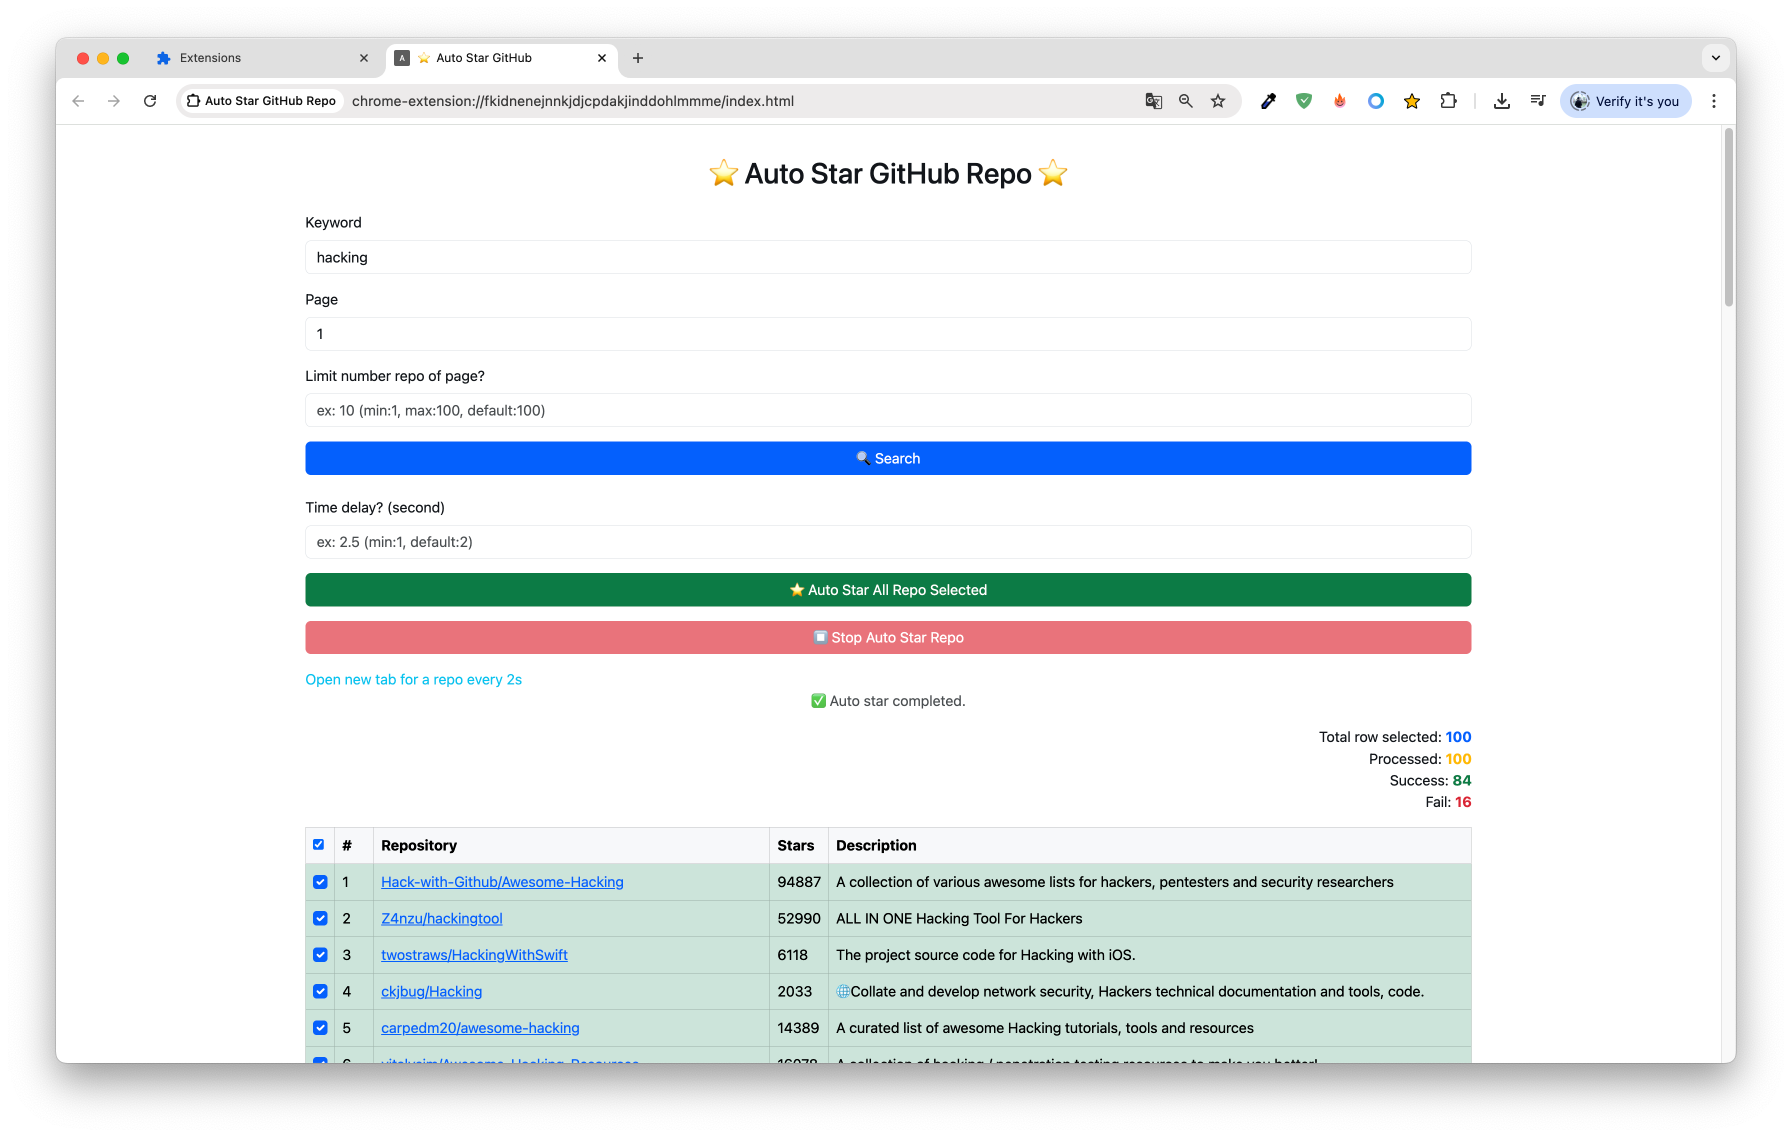
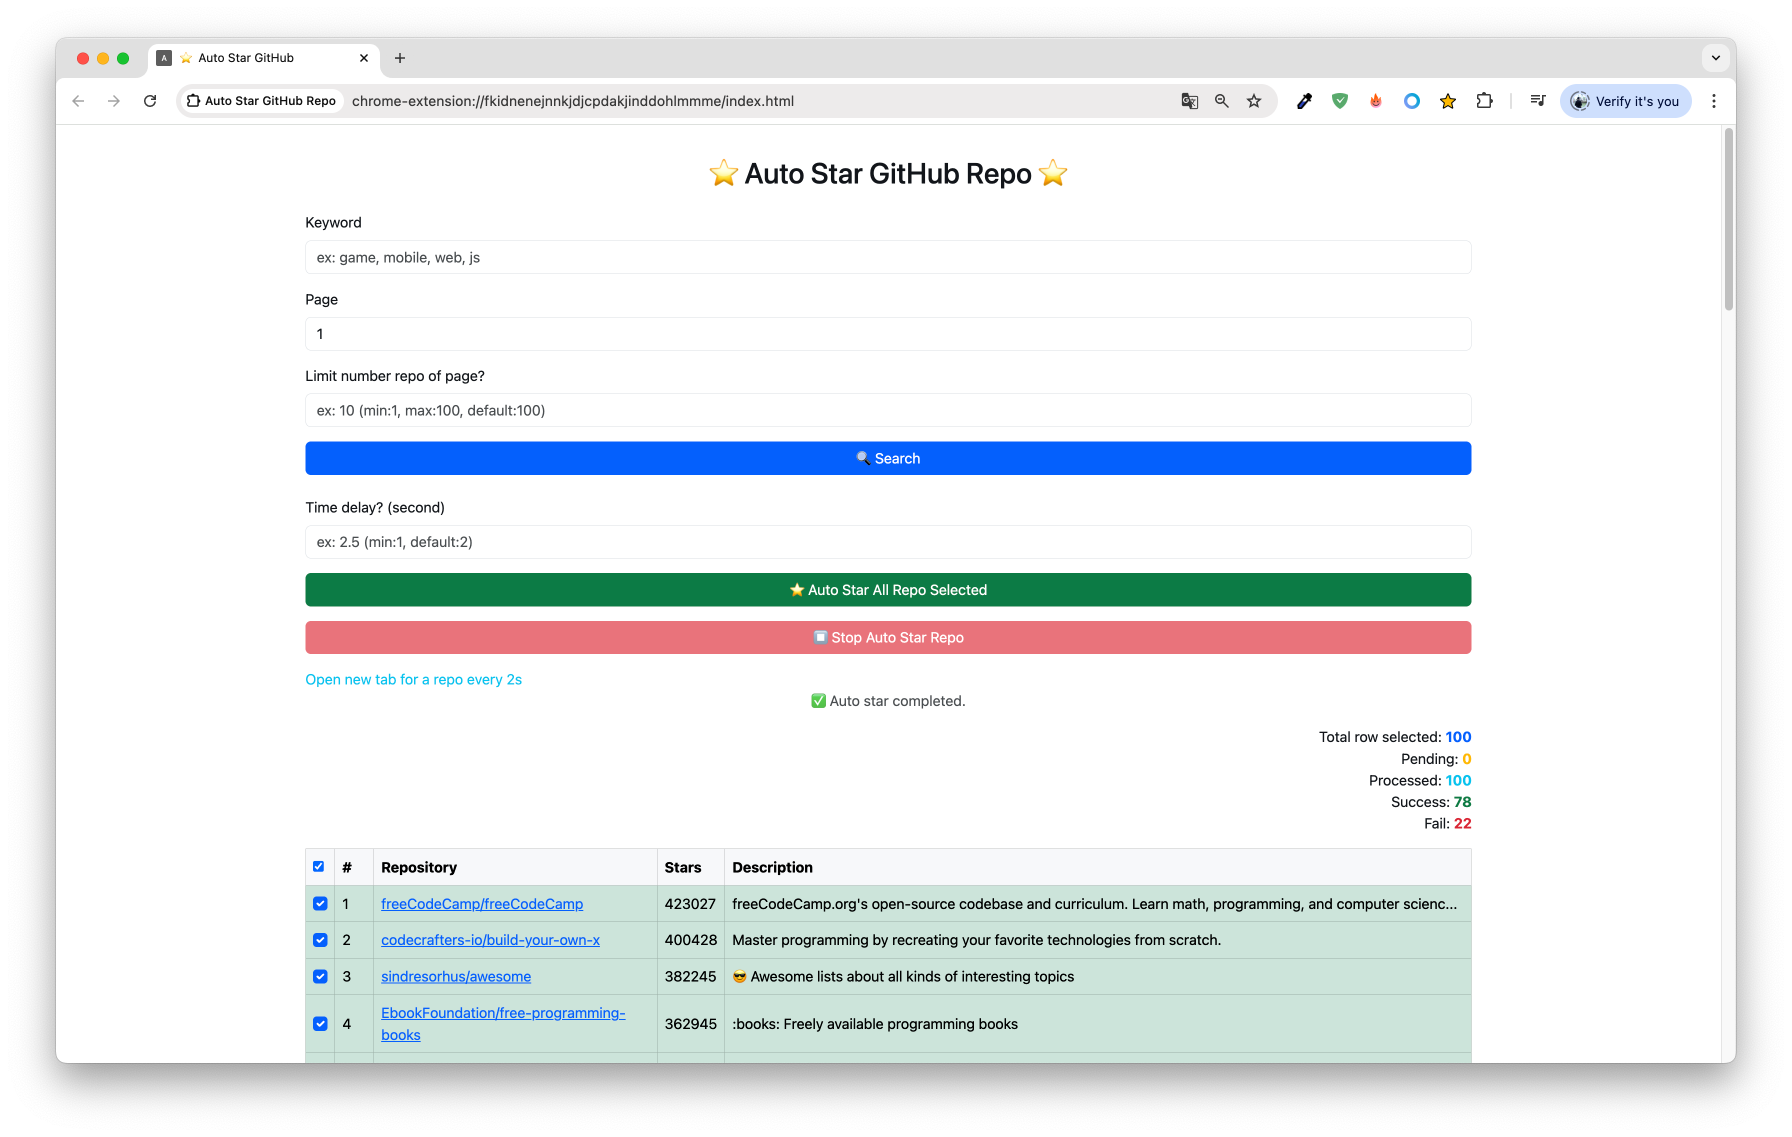
update UI show case pending

diff --git a/main.js b/main.js
@@ -5,12 +5,14 @@ const repoTableBody = document.querySelector("#repoTable tbody");
 const statusEl = document.getElementById("status");
 const checkboxSelectAllRepo = document.getElementById("selectAll");
 const totalRowSelected = document.getElementById("totalRowSelected");
+const textPending = document.getElementById("pending");
 const textProcess = document.getElementById("process");
 const textSuccess = document.getElementById("success");
 const textFail = document.getElementById("fail");
 var listUnChecked = [];
 let playStarring = false;
 let rowProcessing = 0;
+let rowPending = 0;
 let rowCanProcess = 0;
 let rowSuccess = 0;
 let rowFail = 0;
@@ -20,11 +22,13 @@ const rowProcessed = () => {
 
 const updateUIProcess = (reset = false) => {
   if (reset) {
+    rowPending = 0;
     rowCanProcess = 0;
     rowSuccess = 0;
     rowFail = 0;
   }
   totalRowSelected.textContent = rowCanProcess;
+  textPending.textContent = rowPending;
   textProcess.textContent = rowProcessed();
   textSuccess.textContent = rowSuccess;
   textFail.textContent = rowFail;
@@ -126,6 +130,9 @@ starAllBtn.onclick = async () => {
     const repoName = checkbox.dataset.name;
     statusEl.textContent = `⭐ Opening and star repo ${repoName}`;
 
+    rowPending += 1;
+    updateUIProcess();
+
     // Open tab with auto_star query param
     chrome.runtime.sendMessage({
       type: "open_tab",
@@ -185,6 +192,7 @@ chrome.runtime.onMessage.addListener((message, sender, sendResponse) => {
   if (message.type === "star_result" && playStarring) {
     const { repo, success } = message;
 
+    rowPending -= 1;
     rowProcessing -= 1;
     rowSuccess += success ? 1 : 0;
     rowFail += !success ? 1 : 0;

diff --git a/index.html b/index.html
@@ -92,8 +92,12 @@
             ></span
           >
           <span class="text-end"
+            >Pending:
+            <span id="pending" class="text-warning fw-bold">0</span></span
+          >
+          <span class="text-end"
             >Processed:
-            <span id="process" class="text-warning fw-bold">0</span></span
+            <span id="process" class="text-info fw-bold">0</span></span
           >
           <span class="text-end"
             >Success:
